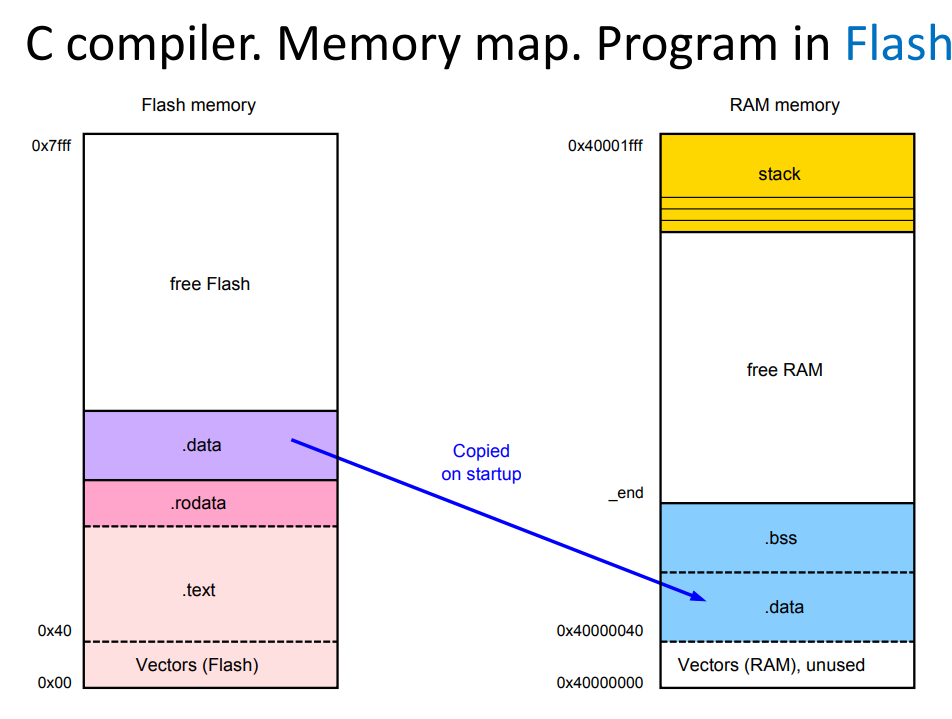
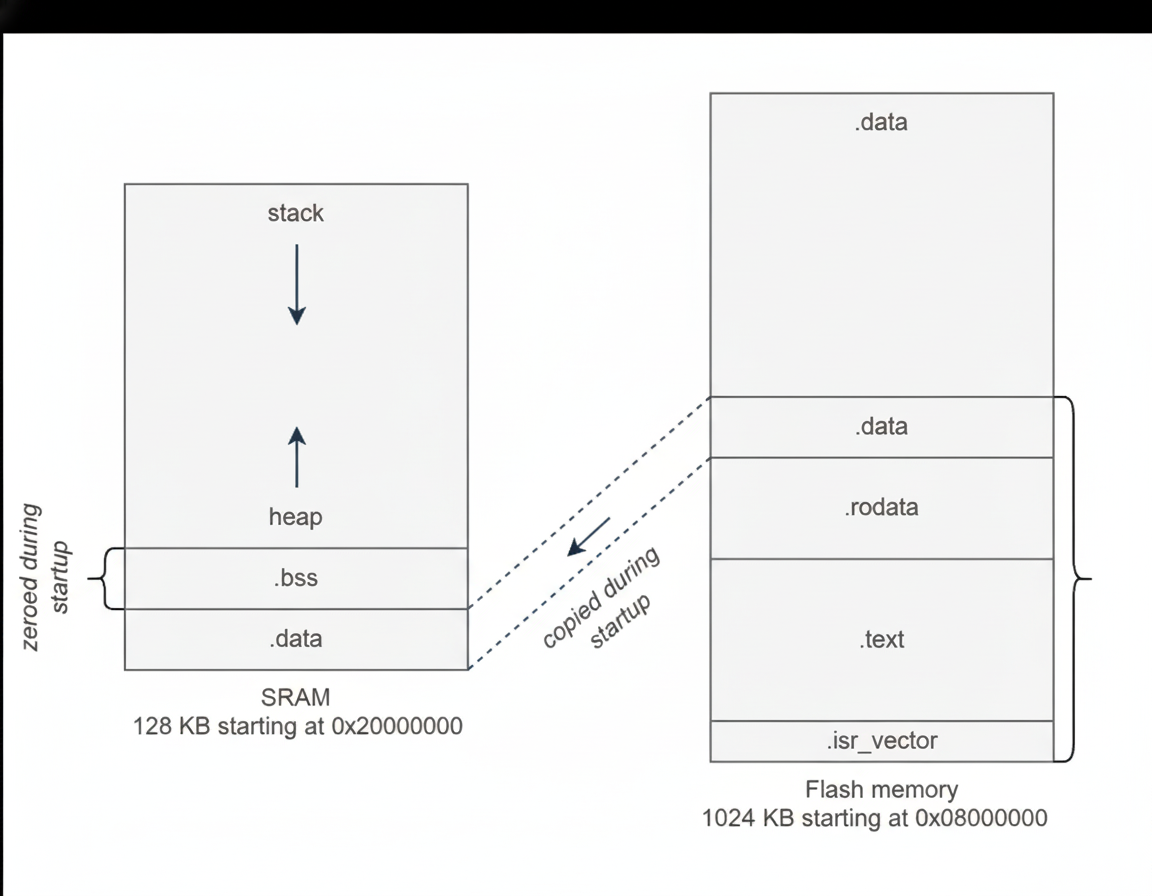
finalized 1_blinky README

diff --git a/apps/1_blinky/README.md b/apps/1_blinky/README.md
@@ -8,7 +8,7 @@
 
 ## The Goal: A Mini OS, From Scratch
 
-The end goal is to build a small operating system on an ARM Cortex-M4, the STM32F407. No vendor HAL. No RTOS. No Arduino. Just the reference manual, a compiler, and bare metal.
+The end goal is to build a small operating system on an ARM Cortex-M4, the STM32F407. No vendor HAL. No libraries. No libc. Just a bare chip, a compiler, a flash programmer, and a reference manual.
 
 But we have to start somewhere. And in embedded, "start somewhere" means blinking an LED.
 
@@ -16,37 +16,36 @@ But we have to start somewhere. And in embedded, "start somewhere" means blinkin
 
 In Arduino, blinking an LED is five lines. `digitalWrite(LED, HIGH)`, upload, done.
 
-But there's a *lot* happening behind the scenes that Arduino hides from you. What if we stripped all of that away? No libraries, no `setup()` and `loop()`. Just a bare chip and a compiler. How do you actually blink an LED?
+But there's a lot happening behind the scenes that Arduino hides from you. What if we stripped all of that away? No libraries, no `setup()` and `loop()`. No "magic" button to upload the code into the microcontroller. How do you actually blink an LED?
 
 Before we can schedule tasks or handle interrupts, we need to understand how this chip boots and how to talk to its hardware.
 
-![placeholder: photo of STM32F407 Discovery board on desk](placeholder_board_photo.jpg)
+<img src="../../docs/img/STM32F407G-DISC.jpg" alt="discovery_board" width="400">
 
 ## What Happens When You Power On?
 
-The processor doesn't just start running your code. It doesn't know where your code *is*. What it does is look at address `0x08000000`, the beginning of Flash, and expect a **vector table**: a list of addresses.
+The processor doesn't just start running your code. It doesn't know where your code is. What it does is look at address `0x08000000`, the beginning of Flash, and expect a **vector table**: a list of addresses.
 
-First entry: initial stack pointer. Second entry: the **Reset Handler**, the first function that runs after power-on.
+The hardware reads the first entry and loads it into the **Stack Pointer (SP)**. It reads the second entry, the **Reset Handler**, and loads it into the **Program Counter (PC)**, and begins execution from there.
 
 ```c
 __attribute__((section(".isr_vector")))
 uint32_t vector_table[] = {
     (uint32_t)&_estack,          // Initial Stack Pointer
-    (uint32_t)&Reset_Handler,    // Reset Handler - entry point
+    (uint32_t)&Reset_Handler,    // loaded into PC and start execution from there
     (uint32_t)&NMI_Handler,
     (uint32_t)&HardFault_Handler
+    ...
 };
 ```
 
-"Here's your stack, here's where to start." That's it. No bootloader, no BIOS. Just a table of addresses in Flash.
-
-![placeholder: diagram showing vector table in Flash memory at 0x08000000](placeholder_vector_table_diagram.png)
+No bootloader, no BIOS. The hardware itself fetches two addresses from Flash and starts running. That's the entire boot sequence.
 
 ## The Reset Handler
 
-On a desktop, the C runtime sets up your environment before `main()` runs. On bare metal, there is no C runtime. *We* are the C runtime.
+On a desktop, the C runtime sets up your environment before `main()` runs - it initializes the stack, copies initialized variables into memory, and zeros out the rest. On bare metal, there is no C runtime. We are the C runtime.
 
-Before any C code with globals can run, we need to set up memory:
+The stack is already taken care of - the hardware loaded it from the vector table. But we still need to set up memory:
 
 1. **Copy `.data` from Flash to SRAM**: initialized globals live in Flash but need to be in SRAM
 2. **Zero `.bss`**: the C standard says uninitialized globals start at zero
@@ -69,13 +68,17 @@ void Reset_Handler(void) {
 }
 ```
 
-The symbols `_etext`, `_sdata`, `_ebss` come from the **linker script**, a file that tells the linker exactly where to place code and data in memory.
+The symbols `_etext`, `_sdata`, `_ebss` come from the **linker script**, a file that tells the linker exactly where to place code and data in memory. We'll elaborate it next.
 
-<img src="../../docs/img/memory_layout.png" alt="memory layout" width="600">
+Once memory is ready, the Reset Handler calls `kmain()` - our application entry point. That's where we take over.
+
+<img src="../../docs/img/memory_layout.png" alt="memory layout" width="500">
 
 ## The Linker Script
 
-The STM32F407 has 1MB of Flash at `0x08000000` and 128KB of SRAM at `0x20000000`:
+The linker script tells the linker, a part of the compiler toolchain, exactly where to place each section in memory. Without it, the linker wouldn't know that code belongs in Flash and variables belong in SRAM.
+
+The `MEMORY` block defines the two memory regions available on the STM32F407: 1MB of Flash at `0x08000000` and 128KB of SRAM at `0x20000000`:
 
 ```
 MEMORY {
@@ -84,11 +87,25 @@ MEMORY {
 }
 ```
 
-Code goes in Flash, variables go in SRAM. The linker generates the `_etext`, `_sdata`, etc. symbols so the startup code knows where to copy things. The vector table, startup code, and linker script work together. They're the boot sequence of our mini OS.
+The `SECTIONS` block then lays out what goes where:
+
+- **`.text`** → Flash: the vector table, all code, and read-only data.
+- **`.data`** → SRAM: initialized global variables. Their initial values are stored in Flash, and the Reset Handler copies them to SRAM at startup.
+- **`.bss`** → SRAM: uninitialized globals. The Reset Handler zeros this region.
+
+The linker also generates symbols that mark the boundaries of each section: `_etext` (end of code in Flash), `_sdata` / `_edata` (start/end of `.data` in SRAM), `_sbss` / `_ebss` (start/end of `.bss`). These are the exact symbols the Reset Handler uses to know what to copy and what to zero.
+
+## Toggling an LED
+
+Now we're in `kmain()`. We want to blink an LED. The STM32F407 Discovery board has four built-in LEDs. Looking at the board's user manual, the green one is connected to pin 12 on GPIO port D (PD12).
+
+GPIO (General Purpose Input/Output) is the peripheral that controls the pins. To toggle the LED, we need to flip PD12's output. But before we can touch any GPIO register, there's a catch.
 
 ## Enabling the Clock
 
-Here's something that catches everyone the first time: on STM32, **peripheral clocks are off by default**. It's a power-saving feature called clock gating. If you try to use a GPIO port without enabling its clock, nothing happens. No error, no crash, just silence.
+On STM32, peripheral clocks are off by default. It's a power-saving feature called **clock gating**. If you try to use a GPIO port without enabling its clock first, nothing happens. No error, no crash, just silence.
+
+The clock is enabled through the RCC (Reset and Clock Control) peripheral. GPIO port D sits on the AHB1 bus, so we set the corresponding bit in `RCC_AHB1ENR`:
 
 ```c
 void gpio_init(uint32_t port) {
@@ -98,11 +115,9 @@ void gpio_init(uint32_t port) {
 
 One bit in one register. That's the difference between a dead port and a working one.
 
-![placeholder: gif showing register bits being set in a debug view](placeholder_rcc_enable.gif)
-
 ## Configuring the Pin
 
-Pin 12 on Port D needs to be an output. Each pin has a 2-bit mode field in the MODER register: `00` for input, `01` for output, `10` for alternate function, `11` for analog.
+With the clock enabled, we can configure PD12 as an output. Each pin has a 2-bit mode field in the MODER register: `00` for input, `01` for output, `10` for alternate function, `11` for analog.
 
 ```c
 void gpio_set_mode(GPIO_TypeDef *gpio, uint32_t pin, uint32_t mode) {
@@ -113,11 +128,19 @@ void gpio_set_mode(GPIO_TypeDef *gpio, uint32_t pin, uint32_t mode) {
 
 Clear first, then set. This read-modify-write pattern shows up everywhere in embedded. You never want to accidentally change bits you didn't intend to touch.
 
+Now we can toggle the LED by XOR-ing the pin's bit in the Output Data Register:
+
+```c
+void led_toggle(void) {
+    GPIOD->ODR ^= (1U << 12);
+}
+```
+
 ## SysTick - First Step Toward an OS Timer
 
-How do you "wait" on bare metal? There's no `sleep()` function. No OS to ask. *We are* the OS.
+We can toggle the LED, but without a delay between toggles it would flip so fast we'd never see it blink. How do you "wait" on bare metal? There's no `sleep()` function. No OS to ask. We are the OS.
 
-The Cortex-M4 has a built-in **SysTick**, a 24-bit countdown timer. We load it with a value, it counts down to zero, sets a flag, and we poll that flag. At 16 MHz, loading 16000 gives us exactly 1 millisecond per countdown.
+The Cortex-M4 has a built-in SysTick, a 24-bit countdown timer. We load it with a value, it counts down to zero, sets a flag, and we poll that flag. At 16 MHz, loading 16000 gives us exactly 1 millisecond per countdown.
 
 For now we poll it. Later, this same timer will drive our scheduler.
 
@@ -134,31 +157,38 @@ void systick_delay_ms(uint32_t delay) {
 }
 ```
 
-## Finally Blinking
+## Putting It All Together
 
 With all that in place, the application code is almost anticlimactic:
 
 ```c
 void kmain(void) {
-    led_init();
+    led_init(); // enable GPIO clock, configure GPIO pin
     while(1) {
         led_toggle();
-        delay();  // 500ms
+        systick_delay_ms(500);
     }
 }
 ```
 
-We initialize the LED (enable clock + set pin to output), then loop forever, toggling the pin every 500ms.
+Initialize the LED (enable clock + set pin to output), then loop forever, toggling the pin every 500ms.
 
-The toggle is done by XOR-ing the Output Data Register:
+## Compiling and Flashing
 
-```c
-void led_toggle(void) {
-    GPIOD->ODR ^= (1U << 12);
-}
+The code is ready, but it's still just C files on our computer. We need to compile it into a binary and write it to the chip's Flash memory.
+
+**OpenOCD** (Open On-Chip Debugger) handles the flashing. It talks to the ST-LINK programmer built into the Discovery board over USB, and writes our compiled `.elf` file directly into Flash.
+
+We automate the whole process with a Makefile. One command to compile, one to flash:
+
+```bash
+make APP=1_blinky
+make flash APP=1_blinky
 ```
 
-![placeholder: gif of LED blinking on the Discovery board](placeholder_led_blinking.gif)
+`make` compiles all source files and links them using our linker script. `make flash` calls OpenOCD to program the board. No IDE, no GUI. Just the terminal.
+
+<img src="../../docs/img/1_blinky.gif" alt="1_blinky_gif" width="300">
 
 ## What We Built
 
@@ -179,8 +209,6 @@ That's the difference between "it just works" and understanding what's actually 
 | Platform | startup.c, linker.ld, regs.h |
 | HAL | GPIO, SysTick |
 | Driver | LED |
-
-![placeholder: screenshot of arm-none-eabi-size output showing .text, .data, .bss sizes](placeholder_size_output.png)
 
 ## What's Next
 

diff --git a/docs/setup.md b/docs/setup.md
@@ -4,24 +4,37 @@
 
 # Setup Guide
 
-## Required Tools
+## Software Requirements
 
 ### GNU Arm Embedded Toolchain
 Install the GNU Arm Embedded Toolchain for compiling ARM Cortex-M code:
 - Download from: https://developer.arm.com/tools-and-software/open-source-software/developer-tools/gnu-toolchain/gnu-rm
-- Follow installation instructions for your platform
+- Add the `bin/` directory to your system PATH
 
 ### OpenOCD
 Install OpenOCD (Open On-Chip Debugger) for flashing and debugging:
-- Linux: `sudo apt-get install openocd`
-- macOS: `brew install openocd`
-- Windows: Download from http://openocd.org/
+- Download from: http://openocd.org/
+- Add to your system PATH
+
+### xPack Windows Build Tools
+Provides GNU Make and other utilities (sh, rm, mkdir, etc.) needed to run standard Makefiles on Windows:
+- Download from: https://xpack.github.io/windows-build-tools/
+- Extract and add the `bin/` directory to your system PATH
+
+### PuTTY
+Install PuTTY for serial terminal communication:
+- Download from: https://www.putty.org/
 
 ## Hardware Requirements
 
 - STM32F407 Discovery Board
-- ST-LINK programmer (built into Discovery board)
-- USB cable
+- USB-to-TTL serial adapter
+- TFT LCD screen with SPI interface and integrated ST7789 controller
+- PS/2 keyboard
+- PS/2 breakout module
+- Jumper wires
+- Multimeter
+- Logic analyzer (optional)
 
 ## Resources
 
@@ -29,17 +42,6 @@ Install OpenOCD (Open On-Chip Debugger) for flashing and debugging:
 - **Datasheet**: Provides functional overview, memory map, block diagrams, pinout, electrical characteristics, etc.
 - **User Manual (UM)**: Describes the development board, which components on the board exist and how they are connected to the microcontroller
 - **ARM Generic User Manual**: Provides information on the core peripherals, such as the System Timer, Floating-Point Unit, System Control Block, Memory Protection Unit, Nested Vectored Interrupt Controller. In addition, provides information on the ISR, Exception Model, Fault handling, Power Management, etc.
-
-## Peripherals
-
-- Base address: 0x40000000
-- **APB**: Advanced Peripheral Bus
-- **AHB**: Advanced High-Performance Bus
-- **APB1, APB2**: Buses saved for lower bandwidth peripherals
-- **AHB1, AHB2**: Buses for high-speed data transfer peripherals
-- By default, the clock to all unused peripherals is disabled to save power (clock gating technique)
-- **RCC (Reset and Clock Control)**: The peripheral that controls buses' clock
-- Registers naming convention: peripheral + _ + register name. e.g: RCC_AHB1ENR
 
 ---
 

diff --git a/README.md b/README.md
@@ -1,12 +1,14 @@
 # stm32-mini-os
 
-A minimal embedded operating system for STM32F407 microcontroller, demonstrating various hardware interfaces and drivers.
+A minimal embedded operating system for the STM32F407 microcontroller, built entirely from scratch. no vendor HAL, no RTOS, no Arduino. Just the reference manual, a compiler, and bare metal.
+
+The project is developed on **Windows** using the GNU Arm Embedded Toolchain.
 
 ## Table of Contents
 
 ### Documentation
 - [Setup Guide](docs/setup.md) — Tool installation and hardware requirements
-- [Build Instructions](docs/building.md) — Building, flashing, and troubleshooting
+- [Build Instructions](docs/building.md) — Building and flashing
 
 ### Applications
 - [1_blinky](apps/1_blinky/README.md) — Blinking an LED from scratch
@@ -70,7 +72,7 @@ A simple LED blinking application that toggles an LED every 500ms.
 UART communication demo that sends messages via serial port and controls LED.
 - Demonstrates: UART, GPIO, SysTick timer
 - Baudrate: 9600
-- Connect via: PuTTY, minicom, or any serial terminal
+- Connect via: PuTTY or any serial terminal
 
 ### 3. LCD Screen (`apps/3_lcd_screen`)
 Display demo using ST7789 LCD driver over SPI.
@@ -85,15 +87,24 @@ Text rendering demo using bitmap fonts on the ST7789 LCD.
 ## Hardware Requirements
 
 - STM32F407 Discovery Board
-- ST-LINK programmer (integrated on Discovery board)
-- Optional: ST7789 LCD module (for lcd_demo)
+- USB-to-TTL serial adapter
+- TFT LCD screen with SPI interface and integrated ST7789 controller
+- PS/2 keyboard
+- PS/2 breakout module
+- Jumper wires
+- Multimeter
+- Logic analyzer (optional)
+
+## Software Requirements
+
+- [GNU Arm Embedded Toolchain](https://developer.arm.com/tools-and-software/open-source-software/developer-tools/gnu-toolchain/gnu-rm)
+- [OpenOCD](http://openocd.org/) — for flashing and debugging
+- [xPack Windows Build Tools](https://xpack.github.io/windows-build-tools/) — GNU Make and supporting utilities for Windows
+- [PuTTY](https://www.putty.org/) — serial terminal
 
 ## Setup
 
-See [docs/setup.md](docs/setup.md) for detailed setup instructions including:
-- GNU Arm Embedded Toolchain installation
-- OpenOCD installation
-- Hardware connections
+See [docs/setup.md](docs/setup.md) for detailed setup instructions.
 
 ## Architecture
 

diff --git a/docs/building.md b/docs/building.md
@@ -9,6 +9,7 @@
 Install the required tools:
 - GNU Arm Embedded Toolchain
 - OpenOCD (for flashing)
+- xPack Windows Build Tools (GNU Make)
 
 See [setup.md](setup.md) for detailed installation instructions.
 
@@ -122,23 +123,6 @@ A default OpenOCD configuration is provided in `cfg/openocd.cfg` for the STM32F4
 ├── Makefile           - Build system
 └── linker.ld          - Linker script
 ```
-
-## Troubleshooting
-
-### Compilation Errors
-
-If you get compilation errors, ensure:
-1. ARM toolchain is properly installed and in PATH
-2. You're using the correct APP name
-3. All source files are present
-
-### Flash Errors
-
-If flashing fails:
-1. Check that your ST-LINK is connected
-2. Verify OpenOCD is installed
-3. Check that the board is powered
-4. Try: `openocd -f cfg/openocd.cfg`
 
 ---
 
